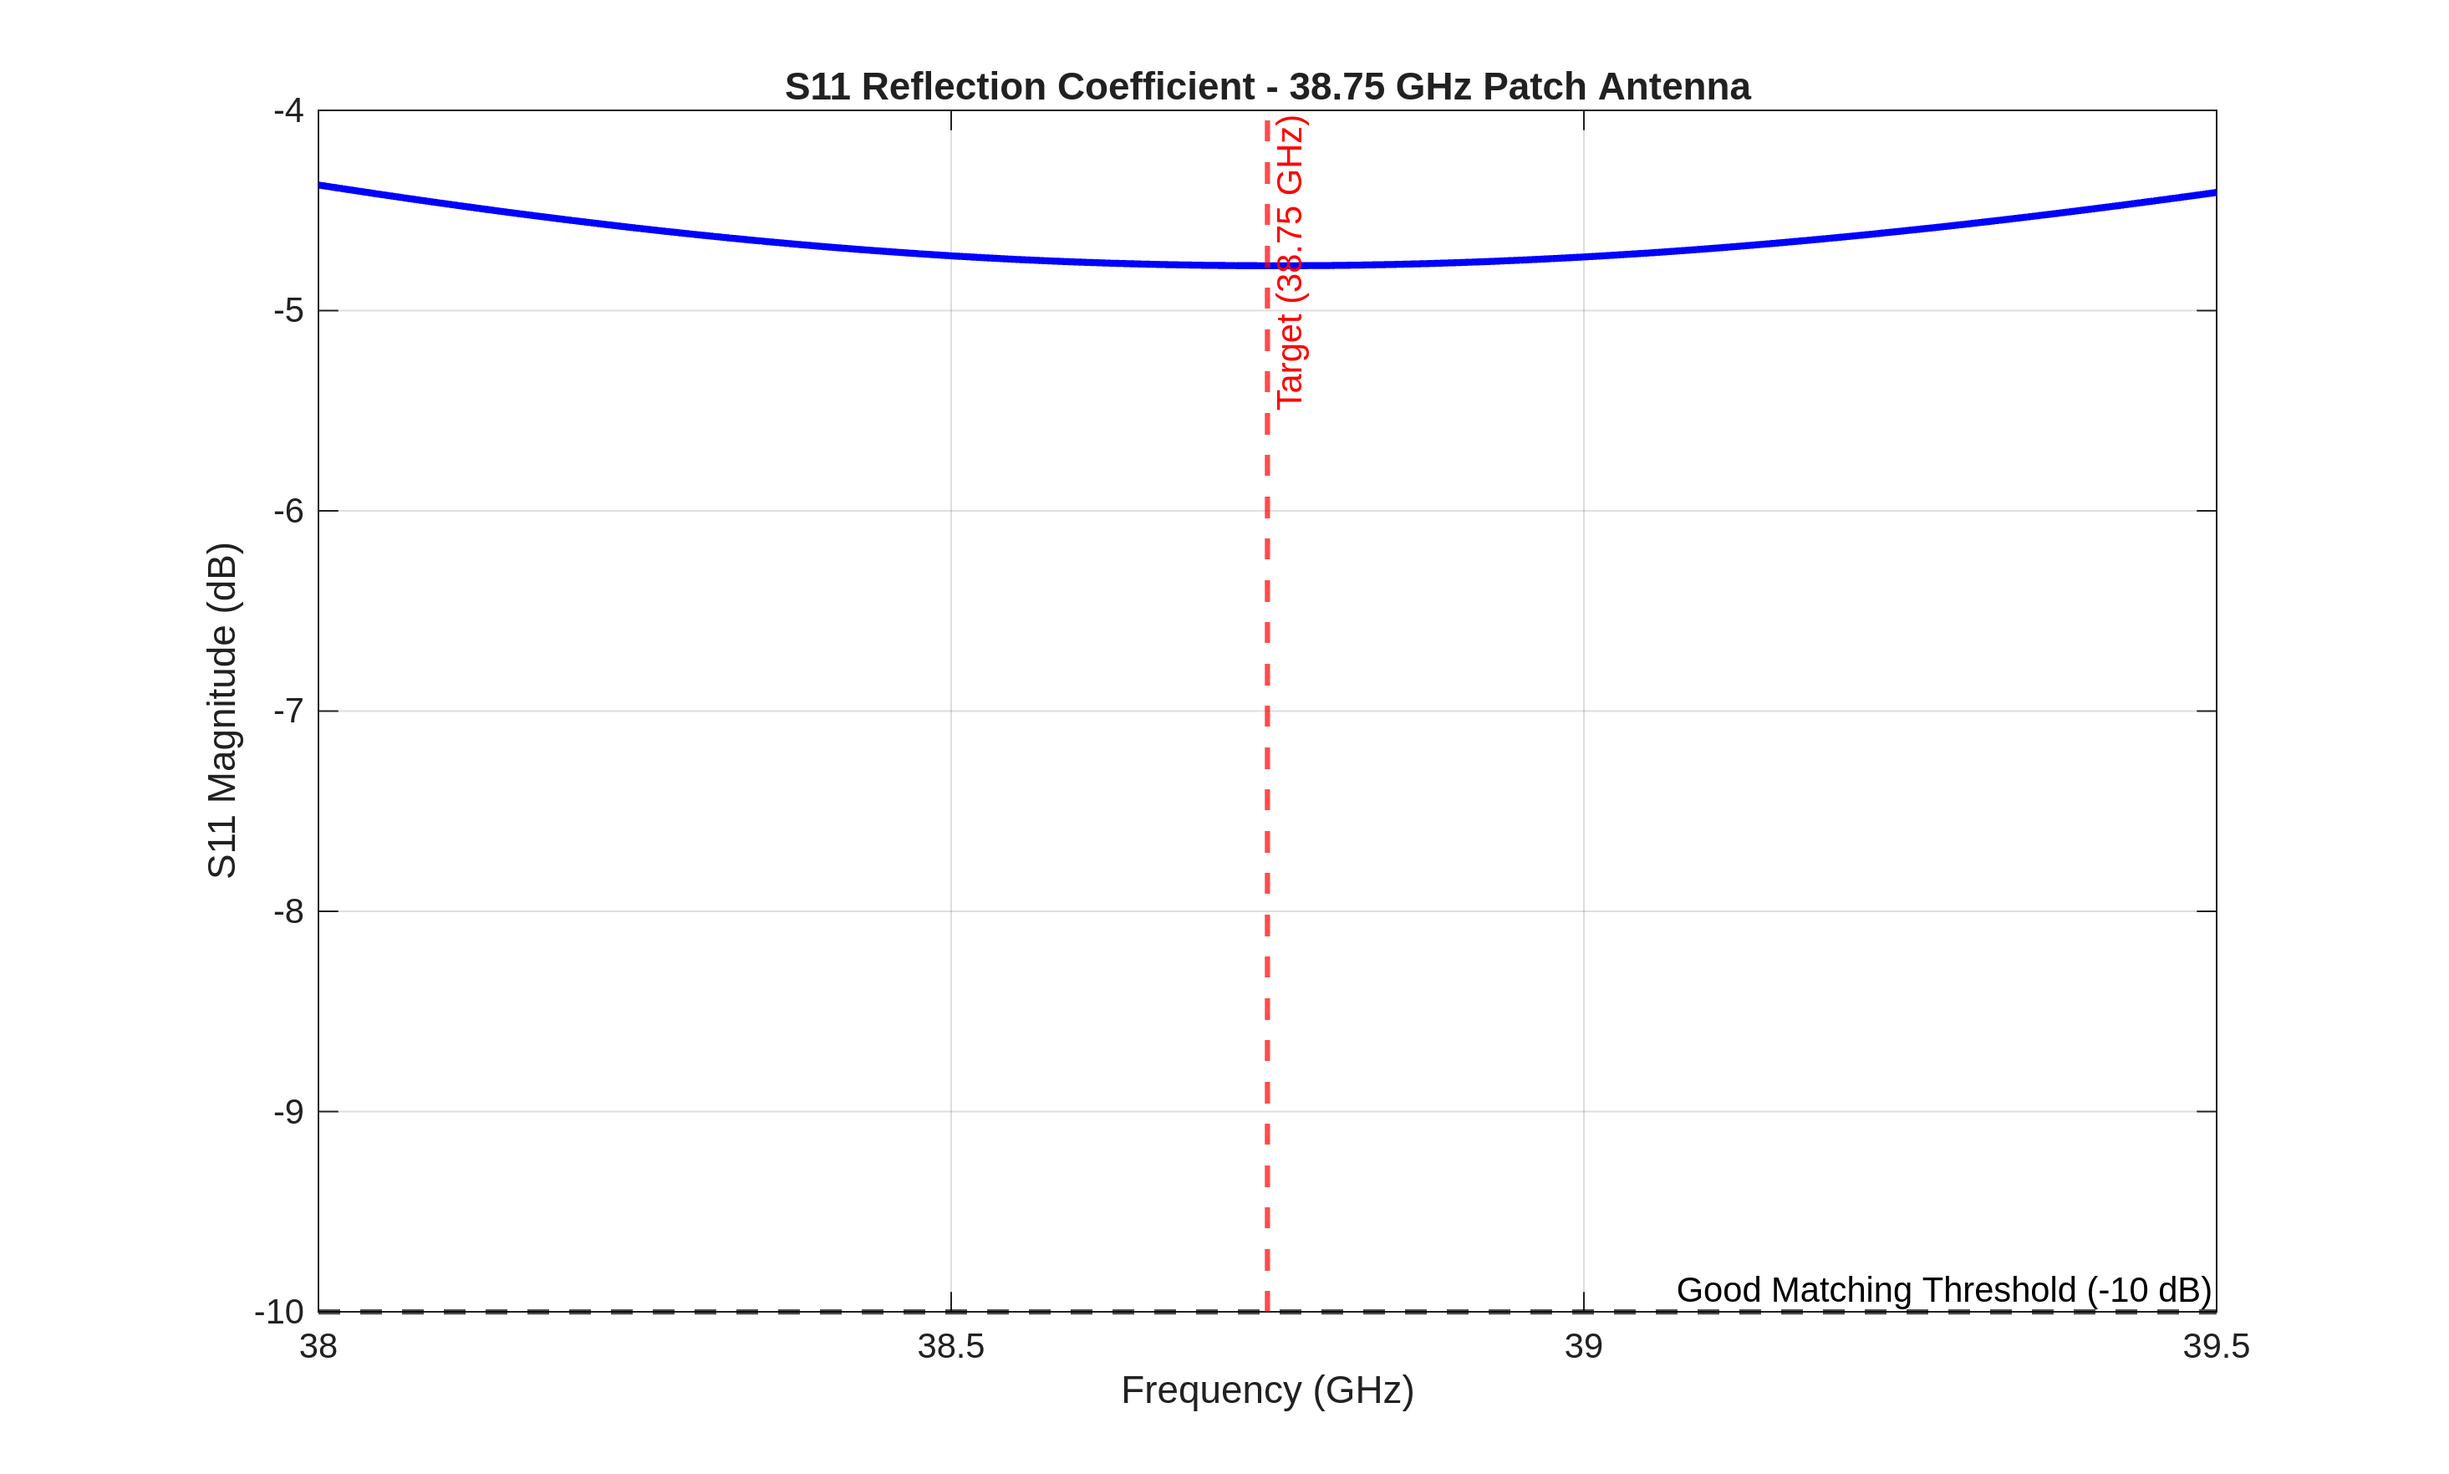
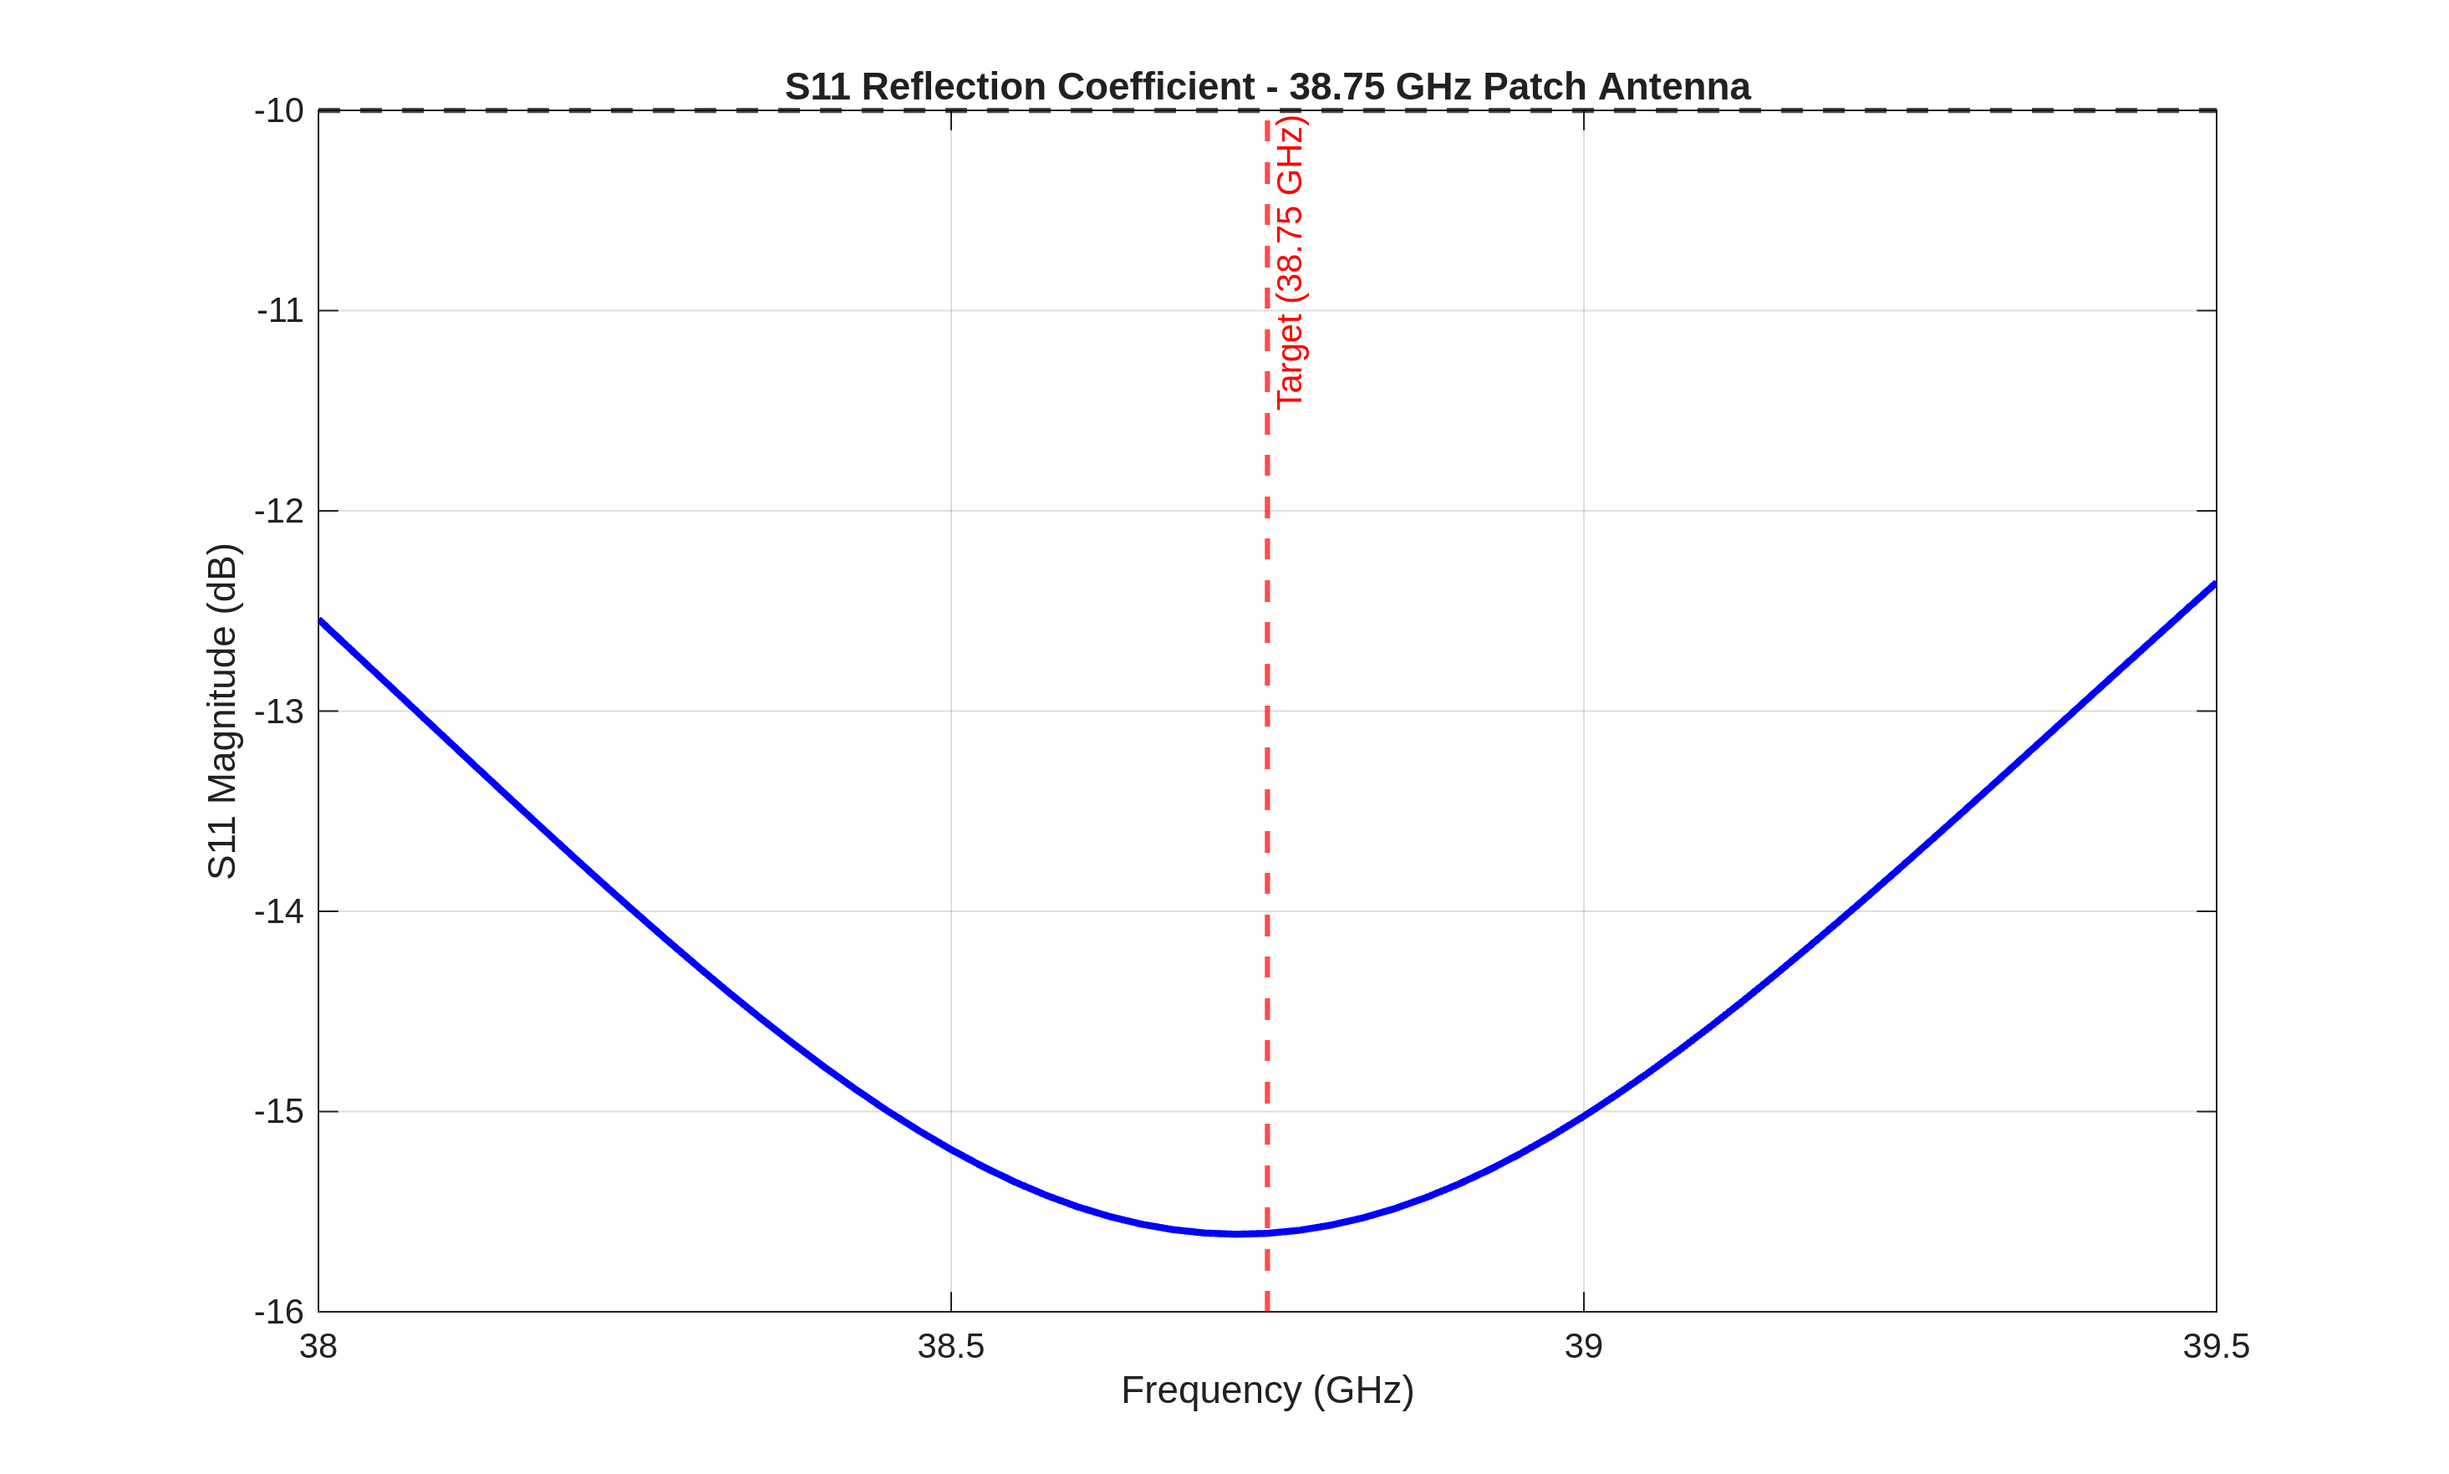
feat(verify): feed the fine-tuned length and feed offset into ant design -> 64.17 +12.73i Ohms -> needs a further fine-tuned

diff --git a/small_scale_channel_tracking/data/ant_config_finetuning/single_antenna/createPatchAntenna_39GHz.m b/small_scale_channel_tracking/data/ant_config_finetuning/single_antenna/createPatchAntenna_39GHz.m
@@ -11,7 +11,7 @@ function p = createPatchAntenna_39GHz()
     % Object Construction
     p = patchMicrostrip;
     % Dimensions from calculation
-    p.Length = 0.002243;     % L = 2.3 mm
+    p.Length = 0.002360;     % 2.368 mm (Micro-adjusted from 2.370)
     p.Width = 0.0031;      % W = 3.1 mm
     p.Height = height;     % h = 0.5 mm
     % Substrate Configuration
@@ -25,5 +25,5 @@ function p = createPatchAntenna_39GHz()
     % MATLAB FeedOffset is [x y] from the center of the patch.
     % To match 50 Ohm at x0 = 0.7mm from the edge:
     % Offset = (Length/2) - x0 => (2.3/2) - 0.7 = 0.45 mm
-    p.FeedOffset = [0.00045, 0];
+    p.FeedOffset = [0.00085, 0];
 end
